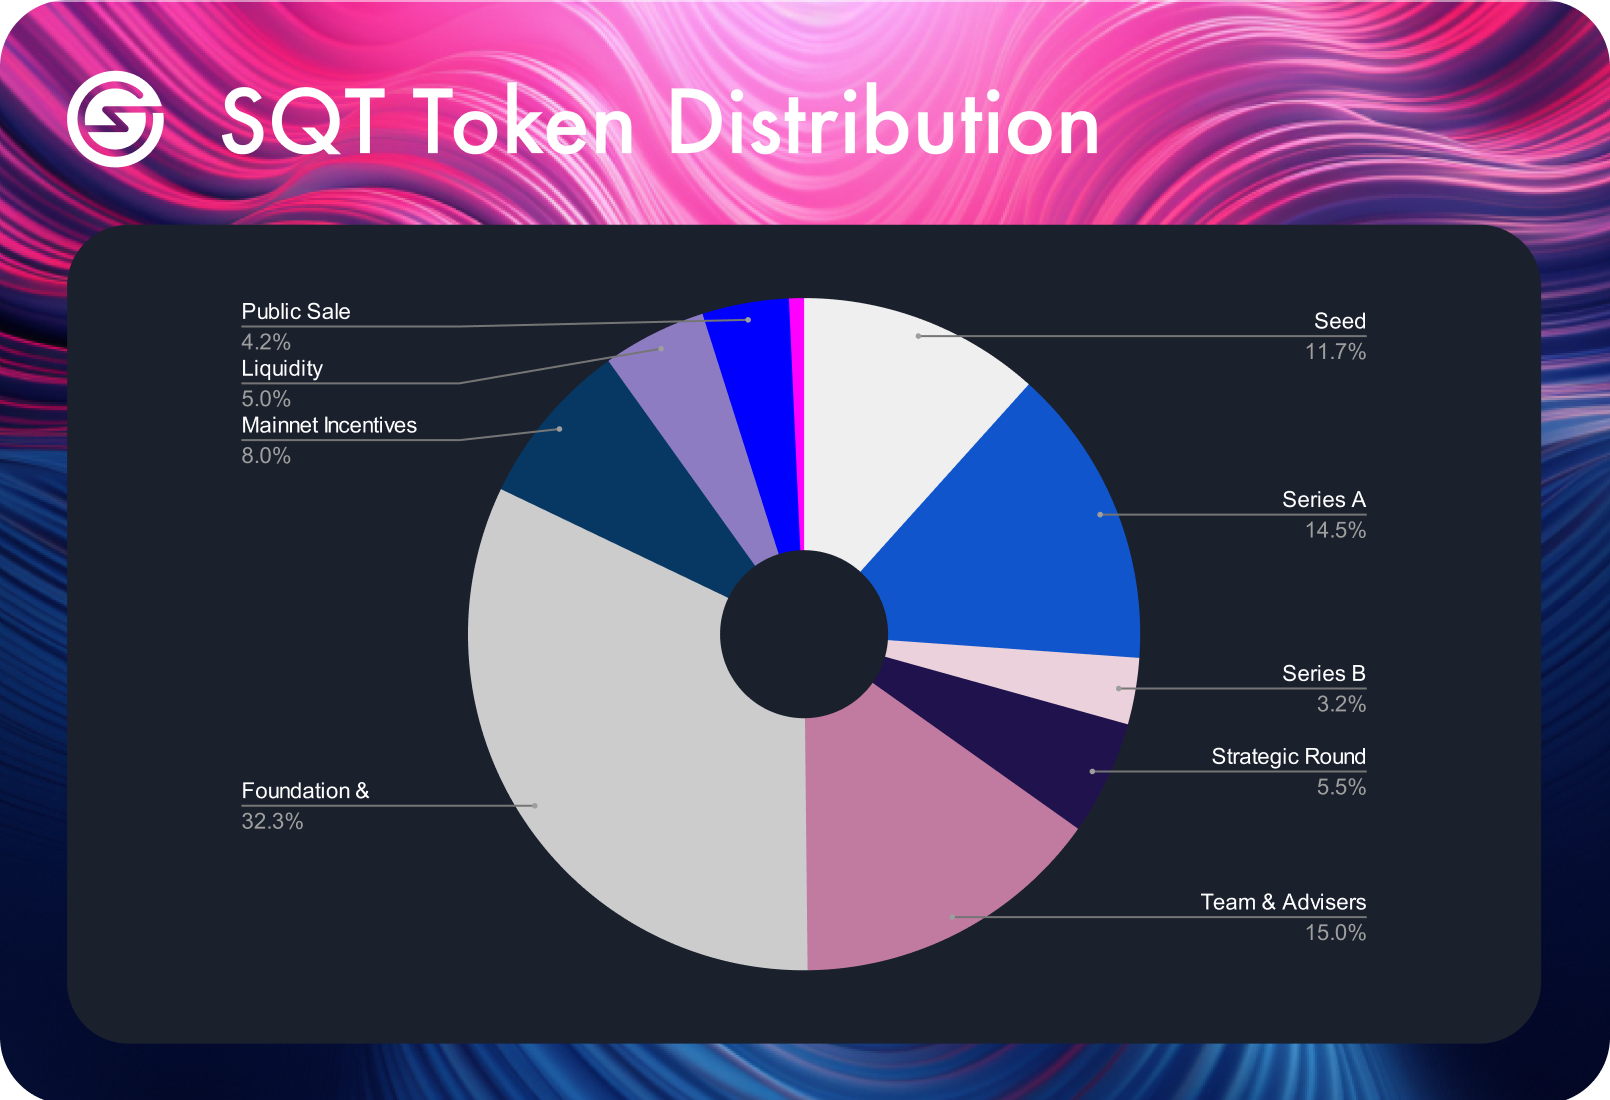
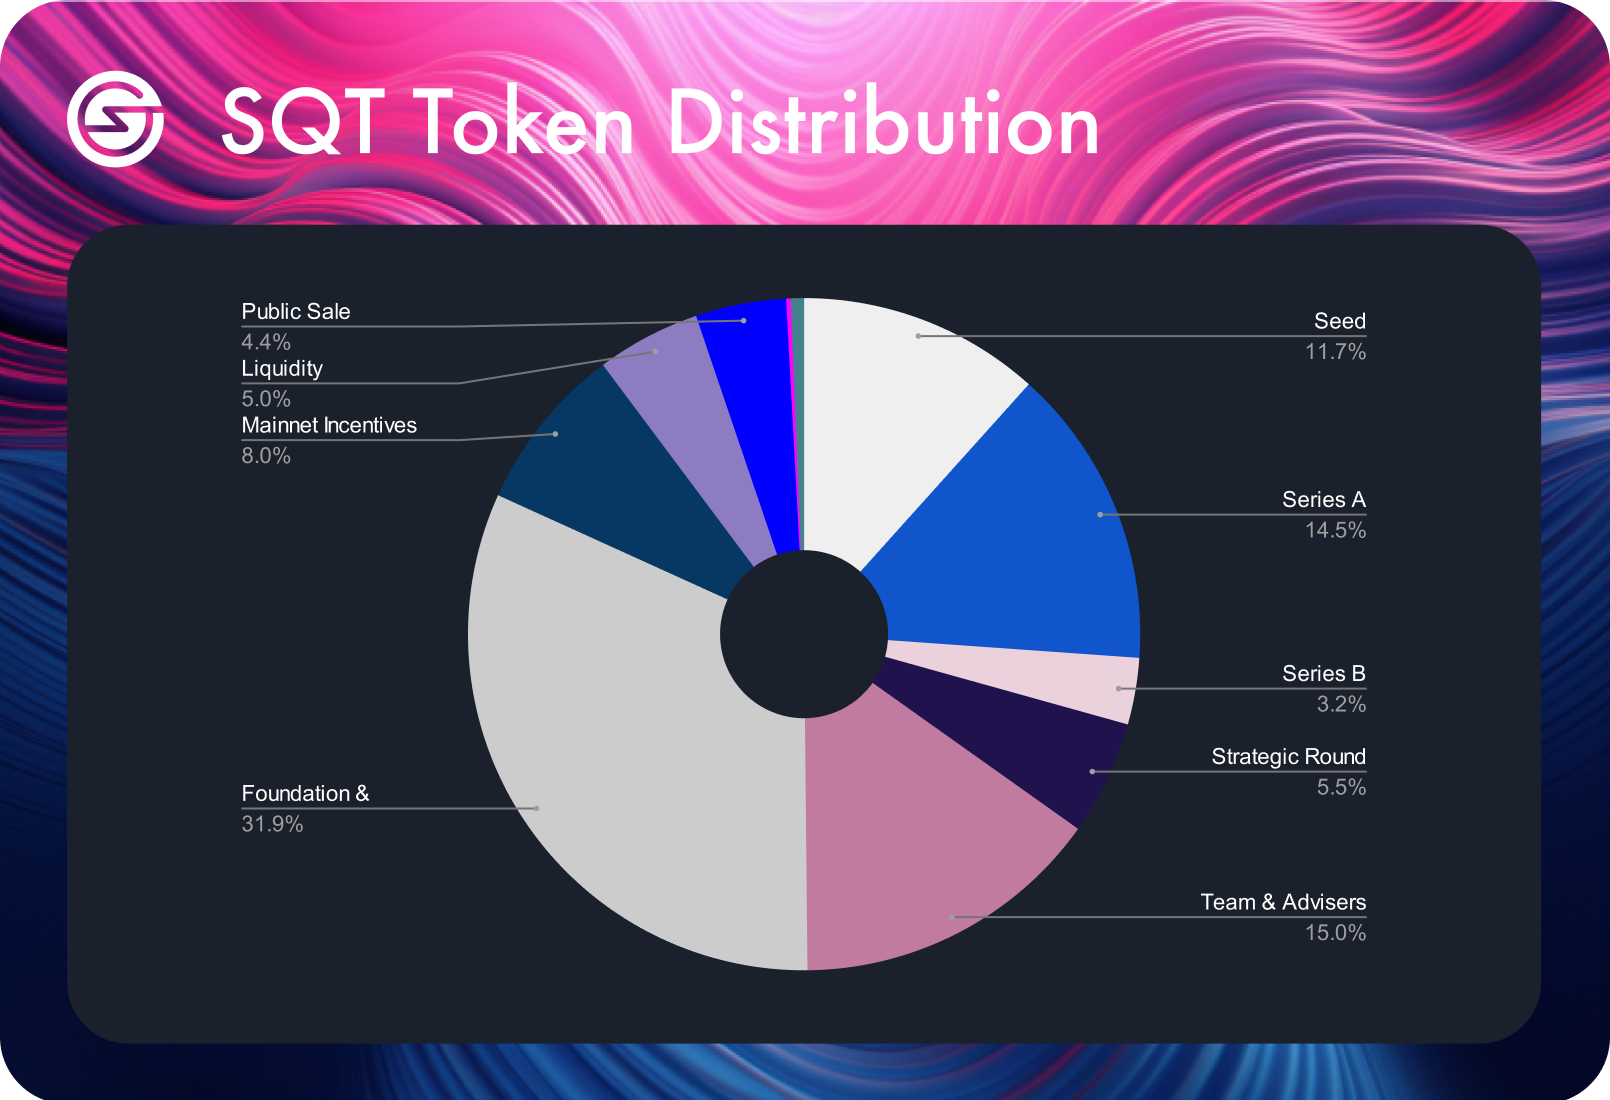
Tweaks to tokenomics

diff --git a/docs/subquery_network/token/tokenomics.md b/docs/subquery_network/token/tokenomics.md
@@ -22,18 +22,18 @@ We have designed our vesting schedule to demonstrate the commitment of various s
 
 The vesting schedules for each participant has been designed to create long-term value for the project and generate confidence to token-holders. Perhaps most significantly, the core team will have a 24 month lock-up period which will then vest over another 24 months while some Public Sale participants can freely use the utility of their token upon launch.
 
-The Foundation and Community will have approximately 20% of their allocation unlocked from the start (as part of mainnet incentives) to meet the operational needs of launching and promoting the SubQuery Network with the rest of the allocation vesting gradually over 5 years.
+The Foundation and Community will have approximately 8% of their allocation unlocked from the start (as part of mainnet incentives) to meet the operational needs of launching and promoting the SubQuery Network with the rest of the allocation vesting gradually over 5 years.
 
-| Group                            | Size  | Vesting Terms                          |
-| -------------------------------- | ----- | -------------------------------------- |
-| Seed                             | 11.7% | 12 month lock-up with 24 month vesting |
-| Series A                         | 14.5% | 6 month lock-up with 18 month vesting  |
-| Series B (and 2022 Private Sale) | 3.2%  | 3 month lock-up with 9 month vesting   |
-| Strategic Round                  | 5.5%  | 24 month lock-up with 24 month vesting |
-| Team and Advisers                | 15.0% | 34 month lock-up with 24 month vesting |
-| Foundation & Community           | 32.3% | No lock-up with 60 month vesting       |
-| Mainnet Incentives               | 8.0%  | No lock-up or vesting                  |
-| Liquidity                        | 5.0%  | No lock-up or vesting                  |
-| Public Sale                      | 4.2%  | No lock-up or vesting                  |
-| kSQT Conversion                  | 0.2%  | No lock-up or vesting                  |
-| SQT Airdrops                     | 0.6%  | No lock-up with 6 month vesting        |
+| Group                                       | Size  | Vesting Terms                          |
+| ------------------------------------------- | ----- | -------------------------------------- |
+| Seed                                        | 11.7% | 12 month lock-up with 24 month vesting |
+| Series A                                    | 14.5% | 6 month lock-up with 18 month vesting  |
+| Series B (and 2022 Private Sale)            | 3.2%  | 3 month lock-up with 9 month vesting   |
+| Strategic Round                             | 5.5%  | 24 month lock-up with 24 month vesting |
+| Team and Advisers                           | 15.0% | 34 month lock-up with 24 month vesting |
+| Foundation & Community - Mainnet Incentives | 8.0%  | No lock-up or vesting                  |
+| Foundation & Community - Vested             | 31.9% | No lock-up with 60 month vesting       |
+| Liquidity                                   | 5.0%  | No lock-up or vesting                  |
+| Public Sale                                 | 4.4%  | No lock-up or vesting                  |
+| kSQT Conversion                             | 0.2%  | No lock-up or vesting                  |
+| SQT Airdrops                                | 0.6%  | No lock-up with 6 month vesting        |
